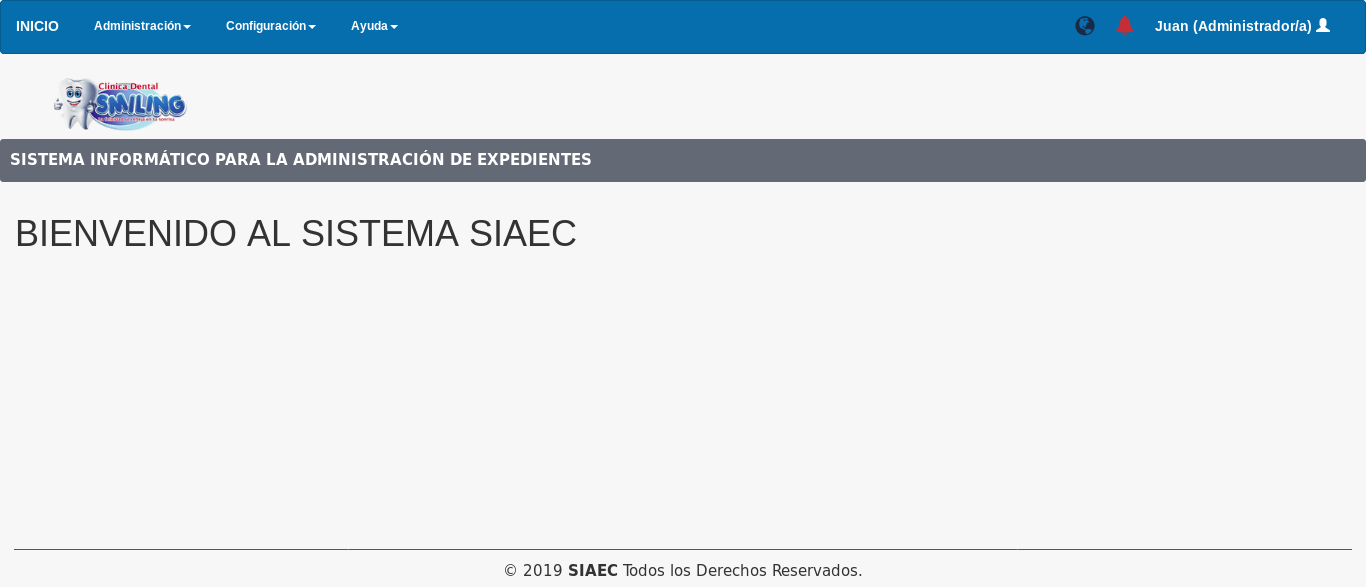
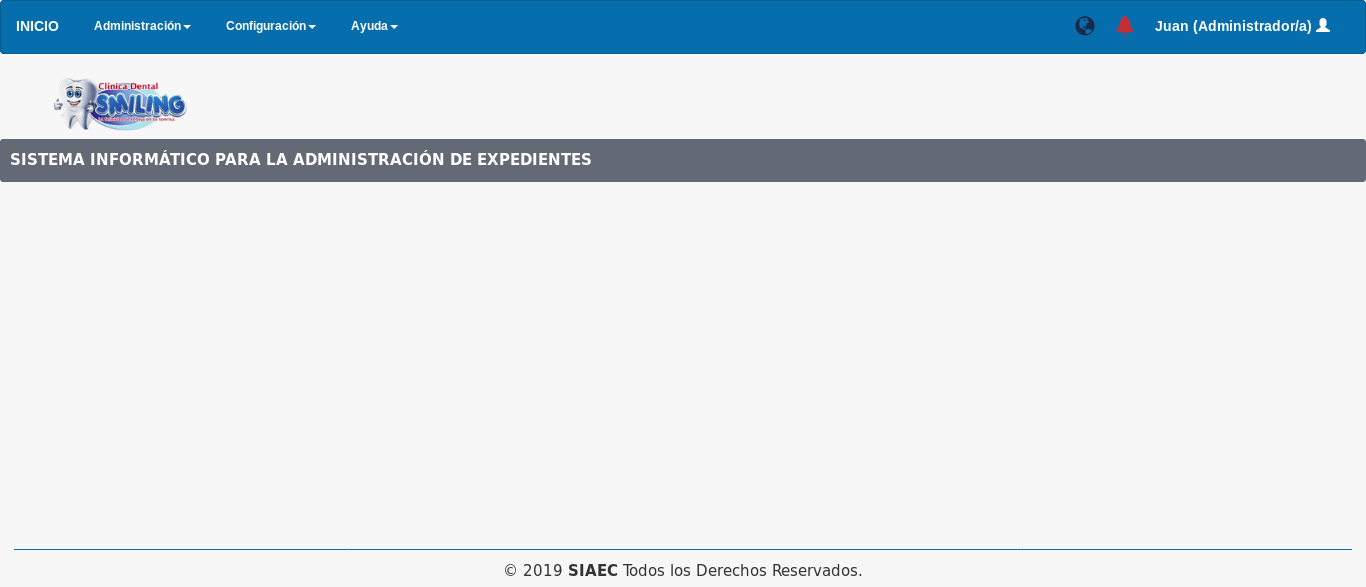
-Update 80 --Agenda de doctores, corregida. --Iconos de dashboard para asistente y medico, modificados. --Agregado dashboard para administrador de sistema
Nota: Realizar las respectivas actualizaciones en la base de datos.

Changed region(s): [[0.0, 0.368, 0.4305, 0.4293]]

diff --git a/src/java/controllers/Dashboard.java b/src/java/controllers/Dashboard.java
@@ -1,8 +1,15 @@
 package controllers;
 
+import dao.BitacoraFacade;
 import dao.CitasFacade;
 import dao.ClinicasFacade;
+import dao.MenusFacade;
 import dao.PacientesFacade;
+import dao.PrivilegiosFacade;
+import dao.RolesFacade;
+import dao.SubmenusFacade;
+import dao.UsuariosFacade;
+import entities.Bitacora;
 import entities.Citas;
 import entities.Clinicas;
 import entities.Pacientes;
@@ -39,6 +46,24 @@ public class Dashboard implements Serializable {
     @EJB
     private ClinicasFacade clinicaFacade;
 
+    @EJB
+    private RolesFacade rolesFacade;
+    
+    @EJB
+    private MenusFacade menusFacade;
+    
+    @EJB
+    private SubmenusFacade submenusFacade;
+
+    @EJB
+    private PrivilegiosFacade privilegiosFacade;
+    
+    @EJB 
+    private UsuariosFacade usuariosFacade;
+    
+    @EJB
+    private  BitacoraFacade bitacoraFacade;
+            
     private PieChartModel graficoCircularPaciente;                      //Grafico circular de pacientes por sexo. 
     private LineChartModel sucursalModelo;                              //Grafico lineal de citasGrafico. 
     private List<Citas> citasGrafico = new ArrayList<>();               //Usado por metodo: consultaPorSucursal()
@@ -69,6 +94,40 @@ public class Dashboard implements Serializable {
         return null;
     }
 
+//Usado en: dashboard administracion.xhmlt
+public Integer totalRoles(){
+    return getRolesFacade().findAll().size();
+}
+
+//Usado en: dashboard administracion.xhmlt
+public Integer totalMenus(){
+    return getMenusFacade().findAll().size();
+}
+
+//Usado en: dashboard administracion.xhmlt
+public Integer totalSubmenus(){
+    return getSubmenusFacade().findAll().size();
+}
+
+//Usado en: dashboard administracion.xhmlt
+public Integer totalPrivilegios(){
+    return getPrivilegiosFacade().findAll().size();
+}
+
+//Usado en: dashboard administracion.xhmlt
+public Integer totalUsuarios(){
+    return getUsuariosFacade().findAll().size();
+}
+
+//Usado en: dashboard administracion.xhmlt
+public Integer totalRegistroBitacora(){
+    return getBitacoraFacade().findAll().size();
+}
+
+//Usado en: dashboard administracion.xhmlt
+public List<Bitacora> todosRegistroBitacora(){
+    return getBitacoraFacade().findAll();
+}
 //****************************************************************************//
 //                 Métodos Get para obtener datos de entidades                //
 //****************************************************************************//
@@ -84,6 +143,29 @@ public class Dashboard implements Serializable {
         return clinicaFacade;
     }
 
+    public RolesFacade getRolesFacade() {
+        return rolesFacade;
+    }
+
+    public MenusFacade getMenusFacade() {
+        return menusFacade;
+    }
+
+    public SubmenusFacade getSubmenusFacade() {
+        return submenusFacade;
+    }
+
+    public PrivilegiosFacade getPrivilegiosFacade() {
+        return privilegiosFacade;
+    }
+
+    public UsuariosFacade getUsuariosFacade() {
+        return usuariosFacade;
+    }
+
+    public BitacoraFacade getBitacoraFacade() {
+        return bitacoraFacade;
+    }
 //****************************************************************************//
 //                             Métodos Get y SET                              //
 //****************************************************************************//
